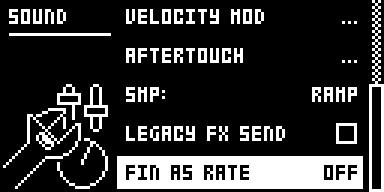
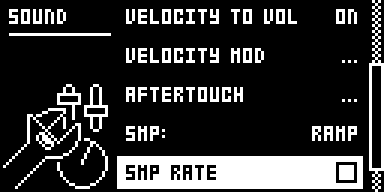
Sample RATE: SMP RATE row under SMP:, checkbox, stock's value, tap of encoder B

diff --git a/sdk/analog-rytm-mkii/modules/_submissions/sample-rate/src/rate.c b/sdk/analog-rytm-mkii/modules/_submissions/sample-rate/src/rate.c
@@ -4,7 +4,7 @@
 //
 // Stock's sample engine builds each voice's step once a block, in the prefetch,
 // from the note, TUN and FIN, clamped to 0.25x..4x. For a sound with SOUND
-// SETTINGS > FIN AS RATE on, the gates in audio.s take FIN out of the pitch and
+// SETTINGS > SMP RATE on, the gates in audio.s take FIN out of the pitch and
 // scale the step by |FIN - 64| / 64, with raw 127 exactly 1x (the Octatrack's
 // increment: PTCH's, times that). Below 64 the voice goes backward: stock plays
 // a sample backward when END is below STA, so this handler swaps the effective
@@ -18,7 +18,6 @@
 
 #include <stdint.h>
 #include "analog-rytm-mk2/store.h"
-#include "analog-rytm-mk2/pages.h"
 
 #define EFF(t, i) (*(volatile short *)(PARAMS_EFF_AT + (t) * 84 + (i) * 2))
 #define IDX_FIN 18
@@ -117,20 +116,33 @@ typedef uint32_t (*get1_t)(uint32_t);
 typedef uint32_t (*get2_t)(uint32_t, int);
 typedef uint32_t (*get3_t)(uint32_t, int, int);
 typedef void (*set_value_t)(uint32_t, int, int, int, int, int);
-typedef void (*text_t)(void *, const void *, int, int, int, int, int, const char *);
+typedef void (*bitmap_t)(void *, const void *, int, int, int);
+typedef int (*held_t)(int);
 typedef void (*invalidate_t)(void *);
 #define PROJECT ((get0_t)PROJECT_AT)
-#define TRACK_SELECTION ((get1_t)TRACK_SELECTION_AT)
 #define TRACK_INDEX_OF ((get1_t)TRACK_INDEX_OF_AT)
 #define KIT_TRACK_SOUND ((get2_t)KIT_TRACK_SOUND_AT)
 #define PARAM_TARGET ((get3_t)PARAM_TARGET_AT)
 #define PARAM_SET ((set_value_t)PARAM_SET_AT)
-#define DRAW_TEXT ((text_t)DRAW_TEXT_AT)
+#define BITMAP_DRAW ((bitmap_t)BITMAP_DRAW_AT)
+#define CHECK_GLYPHS (*(const unsigned char *const *)CHECK_GLYPHS_AT)    // unchecked, then checked
+#define IS_KEY_HELD ((held_t)IS_KEY_HELD_AT)
+#define LOCK_EDITOR ((get1_t)LOCK_EDITOR_AT)
+#define LIVE_RECORDING ((get1_t)LIVE_RECORDING_AT)
 #define VIEW_INVALIDATE ((invalidate_t)VIEW_INVALIDATE_AT)
 #define SOUND_OF_WRAPPER 40          // the wrapper's vtable: its live sound, or 0
 #define NOTIFY_OF_WRAPPER 16         // and the change notice
 #define LIVE_SOUND_FIN 0x38          // FIN's word in a live sound
+#define PROJECT_TRACKSEL 48          // the project's track selection
 #define PROJECT_TRACKS 352           // the project's track sounds
+#define VIEW_PAGE_STATE 108          // a sound page view's lock and record state
+#define KEY_FUNC 0x80
+#define KEY_NO 0x45
+#define KEY_TRIGS 16                 // trig keys are ids 0..15
+#define KEY_DOWN 1                   // the event's flags
+#define KEY_REPEAT 8
+#define ENC_FIN 1                    // encoder B on the SAMPLE page
+#define TAP_TICKS 8                  // about 0.4 s of the UI's 20 Hz
 
 struct picked {
     uint32_t project, wrapper;
@@ -141,7 +153,7 @@ struct picked {
 static int pick(struct picked *p)
 {
     p->project = PROJECT();
-    p->track = (int)TRACK_INDEX_OF(TRACK_SELECTION(p->project));
+    p->track = (int)TRACK_INDEX_OF(p->project + PROJECT_TRACKSEL);
     if ((unsigned)p->track >= TRACKS)
         return 0;
     p->wrapper = KIT_TRACK_SOUND(p->project + PROJECT_TRACKS, p->track);
@@ -158,7 +170,7 @@ int sample_rate_selected(void)   // nonzero while FIN is RATE on the selected tr
 // FIN at its detune's rest would stop the sample, so switching on takes it to
 // 1x, and switching off takes 1x back to rest. Any other value stays: it may be
 // a sound's real detune, or the RATE to come back to.
-static void set_on(void **menu, int on)
+static void set_on(int on)
 {
     struct picked p;
     struct {
@@ -175,7 +187,6 @@ static void set_on(void **menu, int on)
         PARAM_SET(PARAM_TARGET(p.project, p.track, 0), ID_FIN, FULL, p.track, 1, 1);
     else if (!on && fin >= FULL)
         PARAM_SET(PARAM_TARGET(p.project, p.track, 0), ID_FIN, STOP, p.track, 1, 1);
-    VIEW_INVALIDATE((char *)*menu + 56);
 }
 
 // The SOUND SETTINGS row. core_additem builds it from four callbacks, each
@@ -187,21 +198,24 @@ extern void core_additem(void *menu, const void *row);
 static void row_select(void **menu, void *item)
 {
     (void)item;
-    set_on(menu, !sample_rate_selected());
+    set_on(!sample_rate_selected());
+    VIEW_INVALIDATE((char *)*menu + 56);
 }
 
 static void row_draw(void **menu, void *item, void *bitmap, int x, int y)
 {
     (void)menu;
     (void)item;
-    DRAW_TEXT(bitmap, (const void *)FONT_AT, x + 19, y + 2, 2, 0, 0, sample_rate_selected() ? "ON" : "OFF");
+    BITMAP_DRAW(bitmap, CHECK_GLYPHS + (sample_rate_selected() ? 28 : 0), x + 11, y, 0);
 }
 
 static void row_change(void **menu, void *item, int dir)
 {
     (void)item;
-    if (dir)
-        set_on(menu, dir > 0);
+    if (dir) {
+        set_on(dir > 0);
+        VIEW_INVALIDATE((char *)*menu + 56);
+    }
 }
 
 static const void *const row[4] = {
@@ -214,24 +228,52 @@ void sample_rate_add_row(void *menu)
     core_additem(menu, row);
 }
 
-// FIN's value on the knob while it is RATE: its raw 0..127, as the Octatrack's
-static int value_text(struct core_text *t)
+// A tap on FIN's knob turns RATE over: pressed and let go inside TAP_TICKS, with
+// no turn. Stock's press shows the parameter and changes nothing, so it goes on
+// as ever. A press with a trig, FUNC or NO held, or with a lock editor open, is
+// stock's lock work, and so is every press in running live recording.
+static int tap_ticks = -1;      // UI ticks since the press, -1 with no tap open
+
+static int plain_press(void *view)
 {
-    int v = t->value >> 8;
-    char *s = t->buf;
-    if (!sample_rate_selected())
-        return CORE_TEXT_PASS;
-    if (v < 0)
-        v = 0;
-    if (v > 127)
-        v = 127;
-    if (v >= 100)
-        *s++ = '1';
-    if (v >= 10)
-        *s++ = (char)('0' + v / 10 % 10);
-    *s++ = (char)('0' + v % 10);
-    *s = 0;
-    return CORE_TEXT_DONE;
+    uint32_t page = *(uint32_t *)((char *)view + VIEW_PAGE_STATE);
+    int k;
+    if (LOCK_EDITOR(page) || LIVE_RECORDING(page) || IS_KEY_HELD(KEY_FUNC) || IS_KEY_HELD(KEY_NO))
+        return 0;
+    for (k = 0; k < KEY_TRIGS; k++)
+        if (IS_KEY_HELD(k))
+            return 0;
+    return 1;
 }
 
-const struct core_param sample_rate_param = {ID_FIN, ID_FIN, 0, 0, value_text};
+// From the gate in stock's sound page key handler, for any knob's press or release
+void sample_rate_knob(void *view, int id, const char *event)
+{
+    int flags = *(const int *)(event + 16);
+    if (id != ID_FIN || (flags & KEY_REPEAT))
+        return;
+    if (flags & KEY_DOWN)
+        tap_ticks = plain_press(view) ? 0 : -1;
+    else {
+        if (tap_ticks >= 0) {
+            set_on(!sample_rate_selected());
+            VIEW_INVALIDATE(view);
+        }
+        tap_ticks = -1;
+    }
+}
+
+int sample_rate_turn(void *brain, char *event)
+{
+    (void)brain;
+    if (*(int *)(event + 12) == ENC_FIN)
+        tap_ticks = -1;
+    return 0;
+}
+
+void sample_rate_tick(void *ctrl)
+{
+    (void)ctrl;
+    if (tap_ticks >= 0 && ++tap_ticks > TAP_TICKS)
+        tap_ticks = -1;
+}

diff --git a/sdk/analog-rytm-mkii/modules/_submissions/sample-rate/README.md b/sdk/analog-rytm-mkii/modules/_submissions/sample-rate/README.md
@@ -6,31 +6,32 @@ An Analog Rytm MKII mod by npp1993 (Nathaniel Pavel). Version 0.1.0-experimental
 
 Sample RATE gives a sample a pure speed control, the Octatrack's RATE with its setting on PTCH: no time stretch, just the sample played faster or slower, down to a stop and on into reverse. Stock's pitch stops at a quarter of the speed. RATE carries on to zero.
 
-Switch it on for a sound in SOUND SETTINGS with FIN AS RATE. FIN's knob on the SAMPLE page then reads RATE, 0 to 127. 127 plays at normal speed, 64 stops the sample, 0 plays it backward at normal speed, and the speed scales in a straight line between them. TUN stays as it is and multiplies RATE, up to stock's 4x.
+Switch it on for a sound with SMP RATE in SOUND SETTINGS, or by tapping FIN's knob on the SAMPLE page. The knob then reads RATE, +63 to -64. +63 plays at normal speed, 0 stops the sample, -64 plays it backward at normal speed, and the speed scales in a straight line between them. TUN stays as it is and multiplies RATE, up to stock's 4x.
 
 The setting belongs to the sound: it saves with it and it is off by default. A sound with it off plays exactly as stock.
 
-![SOUND SETTINGS with FIN AS RATE on](media/row-on.png) ![FIN's knob reading RATE](media/knob-rate.png)
+![SOUND SETTINGS with SMP RATE checked](media/row-on.png) ![FIN's knob reading RATE](media/knob-rate.png)
 
 ## Controls
 
 | Control | Where | Values |
 | --- | --- | --- |
-| FIN AS RATE | SOUND SETTINGS, the last row | OFF: stock. ON: FIN is RATE on this sound. LEFT and RIGHT set it, YES turns it over. |
-| RATE | SAMPLE page, encoder B (FIN's knob) | 0 to 127. 127 is 1x, 96 is 0.5x, 64 stops, 32 is -0.5x, 0 is -1x. |
+| SMP RATE | SOUND SETTINGS, under SMP: | A checkbox. Clear: stock. Checked: FIN is RATE on this sound. LEFT and RIGHT set it, YES turns it over. |
+| Tap of encoder B | SAMPLE page, either view | Turns SMP RATE over for the selected sound: press and let go within about 0.4 s, with no turn. Stock's press and hold are unchanged. |
+| RATE | SAMPLE page, encoder B (FIN's knob) | +63 to -64. +63 is 1x, +32 is 0.5x, 0 stops, -32 is -0.5x, -64 is -1x. |
 
-Switching on takes a FIN at its rest (+0) to RATE 127, so the sound keeps playing at normal speed. Switching off takes RATE 127 back to FIN +0. Any other value stays as it is, so turning the row off and on again keeps a RATE you set, and a sound with a real detune keeps that number. A detuned sound therefore starts slow: FIN +10 reads RATE 74, 0.16x.
+Switching on takes a FIN at its rest (+0) to RATE +63, so the sound keeps playing at normal speed. Switching off takes RATE +63 back to FIN +0. Any other value stays as it is, so turning the row off and on again keeps a RATE you set, and a sound with a real detune keeps that number. A detuned sound therefore starts slow: FIN +10 reads RATE +10, 0.16x.
 
 ## Usage
 
-Select a track whose sound plays a sample. Press FUNC + MUTE, choose SOUND SETTINGS, go to the last row, FIN AS RATE, and press RIGHT. Leave with NO and press SMPL: FIN's knob reads RATE.
+Select a track whose sound plays a sample. Press SMPL and tap encoder B: the knob reads RATE. Or press FUNC + MUTE, choose SOUND SETTINGS, go to SMP RATE and press RIGHT.
 
 ### Quick tutorial
 
-1. Put a long sample on a track, with LOP ON. Press FUNC + MUTE, choose SOUND SETTINGS, and set FIN AS RATE to ON.
-2. Press SMPL and play the pad. Turn RATE down from 127: the sample slows like a stopping turntable and rests at 64.
-3. Keep turning below 64: it runs backward, smoothly through the stop. A new trig now starts from END.
-4. Hold a trig in GRID RECORDING and turn RATE to lock it on that step: a trig at 1 plays backward from END, and the next trig plays forward again.
+1. Put a long sample on a track, with LOP ON. Press SMPL and tap encoder B: FIN's knob reads RATE.
+2. Play the pad. Turn RATE down from +63: the sample slows like a stopping turntable and rests at 0.
+3. Keep turning below 0: it runs backward, smoothly through the stop. A new trig now starts from END.
+4. Hold a trig in GRID RECORDING and turn RATE to lock it on that step: a trig at -63 plays backward from END, and the next trig plays forward again.
 
 ![RATE's value and name while it turns](media/value-rate.png)
 
@@ -38,33 +39,34 @@ Select a track whose sound plays a sample. Press FUNC + MUTE, choose SOUND SETTI
 
 RATE replaces FIN in the sample's pitch. TUN, the trig's note on a chromatic track and every modulation of TUN still apply, and multiply RATE. Parameter locks, scene and performance locks and LFOs reach RATE as they reach FIN: they are the same parameter, and the sample glides between values as stock's parameters do. STA, END, LOP and the sample slot behave as stock. It covers the sample layer of a sound on any track; the analog voice is untouched. FIN's MIDI CC 25 sets RATE, and it holds across trigs as FIN does on stock.
 
-- With RATE below 64 a trig starts from END and plays towards STA. With END set below STA (stock's backward play) that makes it run forward, the opposite way to stock's backward.
+- With RATE below 0 a trig starts from END and plays towards STA. With END set below STA (stock's backward play) that makes it run forward, the opposite way to stock's backward.
 - With LOP ON the sample loops the way it is going. With LOP OFF it plays once and stops at STA.
-- At 64 the voice holds its last value while the AMP envelope is open, like a stopped tape.
+- At 0 the voice holds its last value while the AMP envelope is open, like a stopped tape.
 
 ### Changes to stock flows
 
-- **A new row in SOUND SETTINGS.** What changes: FIN AS RATE sits after LEGACY FX SEND. Why: the setting belongs to the sound, as ENV RESET and CHROMATIC do, and SOUND SETTINGS is where those live; taking FIN's knob for good, or a FUNC gesture on it, was considered, but Loop Sync holds FUNC + TUN and FIN, and a sound must keep playing as stock until asked. What you see: one more row at the bottom of the list, reading OFF. It applies only in a build with this mod. Checked beside it: the list scrolls, the rows above it stay stock's, and LEFT, RIGHT and YES act on this row alone. Env Reset Amp was not run beside it.
-- **FIN's name and value on a sound with RATE on.** What changes: on the SAMPLE page FIN's label and the header read RATE, and the value reads 0 to 127 where stock reads -64 to +63. Why: the knob no longer does what FIN says. It follows the selected track's sound, and a sound with the row off shows stock. LFO destination lists and other screens still say FIN.
-- **The row writes FIN.** Switching on or off moves FIN between +0 and RATE 127, as above. This is the only place the module changes a parameter. It is an edit like any other, so a kit reload takes it back with the row.
+- **A new row in SOUND SETTINGS.** What changes: SMP RATE sits after SMP:, with LEGACY FX SEND one row lower. Why: the setting belongs to the sound, as ENV RESET and CHROMATIC do, and SOUND SETTINGS is where those live; taking FIN's knob for good, or a FUNC gesture on it, was considered, but Loop Sync holds FUNC + TUN and FIN, and a sound must keep playing as stock until asked. What you see: one more row, a clear checkbox like LEGACY FX SEND's. It applies only in a build with this mod. Checked beside it: the list scrolls, the rows above it stay stock's, and LEFT, RIGHT and YES act on this row alone. Env Reset Amp was not run beside it.
+- **FIN's name and value on a sound with RATE on.** What changes: on the SAMPLE page FIN's label and the header read RATE, and the value keeps stock's -64 to +63. Why: the knob no longer does what FIN says. It follows the selected track's sound, and a sound with the row off shows stock. LFO destination lists and other screens still say FIN, and a held trig's sound lock shows the track's own name for the knob.
+- **A tap of FIN's knob.** What changes: on the SAMPLE page a short press of encoder B, with no turn, turns SMP RATE over. Why: switching FIN and RATE while working on a sound beats a menu trip. What you see: the label and value change at once; stock's press still shows the parameter. It applies only in a build with this mod, and SOUND SETTINGS does the same job. A press with a trig, FUNC or NO held, one held past about 0.4 s, or one in running live recording stays stock's, so clearing locks is untouched. Checked beside it: other knobs, press and turn, the sequencer playing. This takes a stock gesture's tap, so it needs the owner's agreement.
+- **The row writes FIN.** Switching on or off moves FIN between +0 and RATE +63, as above. This is the only place the module changes a parameter. It is an edit like any other, so a kit reload takes it back with the row.
 
 ## Compatibility and limitations
 
 - OS 1.74 only, with core-ar2 0.7. No other module is needed. It links beside Pipo Loop, Silent Pad+Trig, Loop Sync and Filter Hz, with no shared sites.
 - With LOP PIPO, Pipo Loop's turns stayed exact in rytm-emu at every RATE tried, forward, backward and below one frame a block; a unit has to confirm it.
-- Sites: the audio interrupt just before the sample prefetch (0x4012112c), TUN and FIN's read and the step's write in the prefetch's rate loop (0x4011c644, 0x4011c686), the routine that applies a sound's settings to a track (0x4011f642), the parameter short and long name routines (0x400a9000, 0x400a9022) and the end of SoundSetupMenuView's constructor (0x400ef5e2). The value text is core-ar2's `core_params`, for FIN's id. Storage: one sound-scope bit.
+- Sites: the audio interrupt just before the sample prefetch (0x4012112c), TUN and FIN's read and the step's write in the prefetch's rate loop (0x4011c644, 0x4011c686), the routine that applies a sound's settings to a track (0x4011f642), the parameter short and long name routines (0x400a9000, 0x400a9022) and SoundSetupMenuView's constructor after its SMP: row (0x400ef51c) and stock's sound page key handler on a knob press (0x4003a5fc). It subscribes to `ev_tick` and `ev_enc` to time the tap. Storage: one sound-scope bit.
 - RATE never goes above 1x by itself, as on the Octatrack. TUN does: stock's ceiling of about 4x either way stands, set by its 140-frame read window.
-- Below 64 the module swaps the effective STA and END before stock's prefetch reads them, so stock plays the sample backward. A change of direction on a looping voice waits until it is 32 frames clear of STA and END: about 0.7 ms at 1x, longer as RATE nears zero (53 ms at 1/64x). A trig does not wait.
+- Below 0 the module swaps the effective STA and END before stock's prefetch reads them, so stock plays the sample backward. A change of direction on a looping voice waits until it is 32 frames clear of STA and END: about 0.7 ms at 1x, longer as RATE nears zero (53 ms at 1/64x). A trig does not wait.
 - With LOP OFF, once the sample has played out, changing RATE does not bring it back: trig again.
 - Sound locks should follow the locked sound's setting (stock applies a sound lock through the same routine), and scene and performance locks should reach RATE as they reach FIN; none of these has been run.
-- On stock OS, or a build without this mod, a saved sound plays FIN as FIN: by the code, RATE 127 is about a semitone sharp and RATE 0 a semitone flat.
+- On stock OS, or a build without this mod, a saved sound plays FIN as FIN: by the code, RATE +63 is about a semitone sharp and RATE -64 a semitone flat.
 - The row's setting is written to the stored kit at once, as all core-ar2 mod storage is; FIN follows stock's own kit save.
 - The setting is kept only by builds with the same storage layout: a module added to a configuration later keeps it, a fresh layout loads it as OFF.
 - Not tested on a unit: see [TESTING.md](TESTING.md).
 
 ## Tests and measurements
 
-rytm-emu on OS 1.74, on a 23,777-frame ramp: the step word is exact at every RATE tried, a trig below 64 starts from END, with the row off the output is sample-identical to the core alone, and with Pipo Loop no case clicks. Details, builds and what was not run are in [TESTING.md](TESTING.md). Nothing has run on a unit yet. Memory: 2,320 bytes of the 128 KiB shared mod area. Load: about 0.2 % of a block with the row off, 0.35 % with eight voices in RATE (static estimate, not measured).
+rytm-emu on OS 1.74, on a 23,777-frame ramp: the step word is exact at every RATE tried, a trig below 0 starts from END, with the row off the output is sample-identical to the core alone, and with Pipo Loop no case clicks. Details, builds and what was not run are in [TESTING.md](TESTING.md). An earlier build ran on the author's unit ([TESTING.md](TESTING.md)); the row's new place, the checkbox and the tap have not. Memory: 2,158 bytes of the 128 KiB shared mod area. Load: about 0.2 % of a block with the row off, 0.35 % with eight voices in RATE (static estimate, not measured).
 
 ## Authorship and licences
 
@@ -72,6 +74,6 @@ Original code by npp1993 (Nathaniel Pavel), GPL-3.0-or-later ([LICENSE](LICENSE)
 
 ## Screens and audio
 
-Screenshots are rytm-emu captures of build SR04 ([media/capture.json](media/capture.json)). No audio preview yet.
+Screenshots are rytm-emu captures of build SR06 ([media/capture.json](media/capture.json)). No audio preview yet.
 
-![FIN AS RATE off](media/row-off.png) ![Another track's sound keeps FIN](media/other-track-fin.png)
+![SMP RATE clear](media/row-off.png) ![Another track's sound keeps FIN](media/other-track-fin.png)

diff --git a/sdk/analog-rytm-mkii/modules/_submissions/sample-rate/TESTING.md b/sdk/analog-rytm-mkii/modules/_submissions/sample-rate/TESTING.md
@@ -2,7 +2,7 @@
 
 Everything below was observed in rytm-emu on the named build. Nothing has run on a unit, and the emulator is not hardware evidence: the Hardware section is empty until the author reports from one.
 
-- Source (0.1.0-experimental): fingerprint (`sha256` of `sha256sum build.json src/audio.s src/rate.c`) `dc07d5cd…3e07` (`evidence.sourceSha256`), which drops the block handler's put-back step from the source below.
+- Source (0.1.0-experimental): fingerprint (`sha256` of `sha256sum build.json src/audio.s src/rate.c`) `c627749f…8976` (`evidence.sourceSha256`).
 - Stock OS 1.74: `.syx` `cb0f99d6…e123`, the owner's file. Core: elekloader core-ar2 0.7 as vendored.
[2 lines of base64/hex data omitted]
@@ -10,10 +10,30 @@ Everything below was observed in rytm-emu on the named build. Nothing has run on
[6 lines of base64/hex data omitted]
 - A core-only image, same stock and core, for comparison.
 - Emulator: rytm-emu `c5732f0`, headless `dtboot`, JIT on. One generated sample, RAMP, 23,777 frames (odd, so STA and END fall on no round multiple), on BD with LOP ON. Audio is dtboot's `--wav`. Voice words are read with `DTBOOT_PEEK`: step at rec + 12, position at rec + 4, effective FIN at 0x8000f7cc. A click means a sample-to-sample step over 40, or six times the median, on a ramp whose normal step is below 2; each run also flags the trig's own attack, which is not counted.
 
-## Rerun on the current source
+## The row, the tap and the value (SR06)
+
+The row moved under SMP:, named SMP RATE, drawn as stock's checkbox; the value is stock's -64 to +63, so the module's own value text is gone.
+
+| Check, from RATE on | Result |
+| --- | --- |
+| SMP RATE row | under SMP:, LEGACY FX SEND below it; the box follows RIGHT and LEFT; ticking takes FIN 64 to 127 |
+| Tap of encoder B | FIN 127 to 64 and the row clears; a second tap puts both back; in both SAMPLE views |
+| Tap while the sequencer plays | turns over |
+| Press held 300 M, press and turn, FUNC, NO or a trig held, encoders A and E pressed, running live recording | no change to the row |
+| The value while turning | reads +51, +35, +29 in stock's format, header RATE |
+| Right after a tap | the header can show the name from the press until the next redraw |
+
+The speed tables below read in raw values, 0 to 127: subtract 64 for what the knob now shows.
+
+## Rerun on the source before the row moved (SR05, SP04, SA04), and again on SR06, SP05 and SA05
+
+The audio code is the same in both; every run named here passed on both sets.
 
 Stock rebuilds the effective array every block, so the handler's step that put its swap back had no work and could match by chance; it is gone. On SR05 the row-off comparison is again identical over 239,890 frames, and the speed and direction rows match. On SP04 the 22 PIPO speed runs, 11 flip and stop runs, 8 phase runs and the four sweeps that gave 12 jumps show no click past the trig's attack. On SA04 the 11 runs are clean. The tables below name the build each was first run on. The Hardware section is SP03, the source before this change, with Pipo Loop `f48b95d9`.
 
